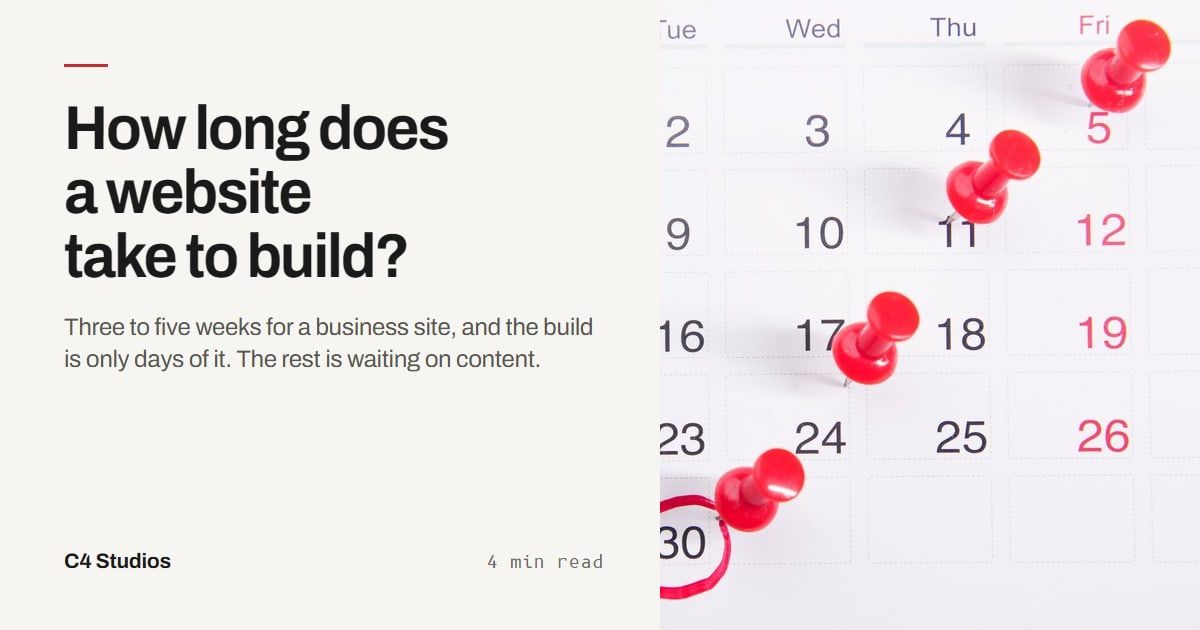
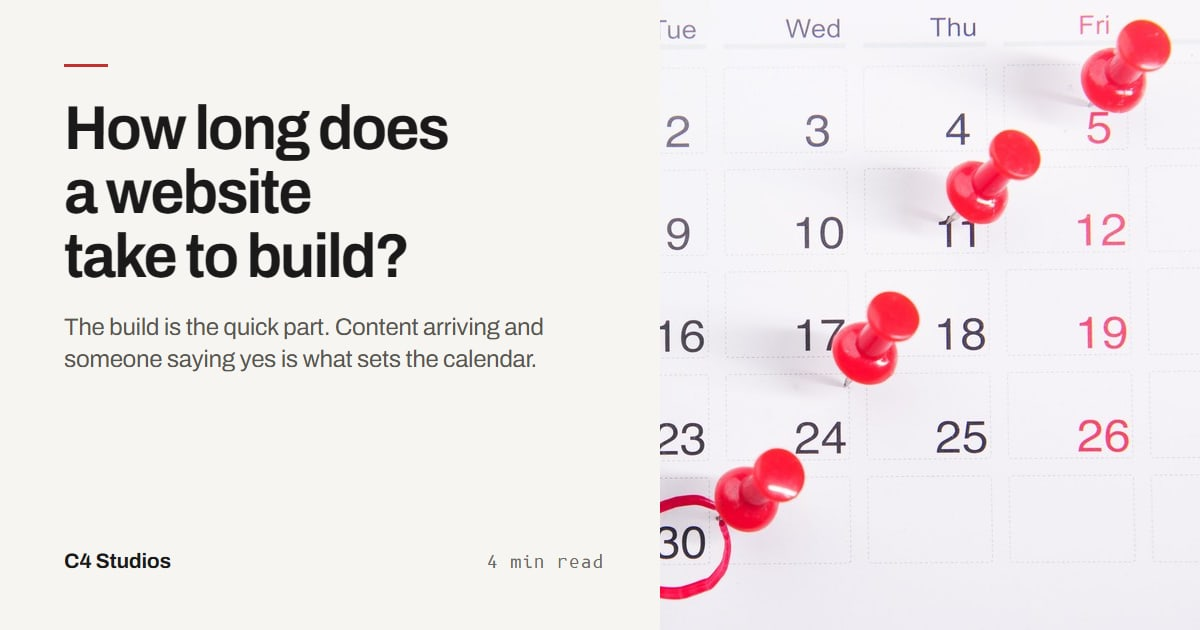
Article hooks that the articles back up, and C4Site's own words for C4Site
Three of the new /insights display lines claimed more than the articles do:
- Prices: "Fewer people got in touch, and more of the ones who did were
  serious" isn't in the article or on record anywhere. Now: the reasons
  studios keep prices off the site, named from inside, then all of ours.
- Wix: "$40 a month ... $2,400 over five years" put an unsourced plan price
  in the headline. Now the five-year point without the figure.
- How long: "Three to five weeks for a business site" put an unsourced range
  in the headline, and it disagreed with the home page's "2 to 3 weeks" for
  web. Now: the build is quick, content and a yes set the calendar.
The three share cards had the old lines baked in and are re-rendered from
the masters with scripts/article-photos.mjs; the photo crops came out
byte-identical.

llms.txt's C4Site line said it runs "private AI systems", which Caleb parked
on 10 Oct. It now uses C4Site's own description word for word
(c4site-website src/data/site.ts SITE.description) plus its footer line, as
the C4Site session asked.

/private-ai, /private-ai/, /c4i and /c4i/ now go straight to
c4site.com.au/ai-training-for-business/, in one hop, where C4Site's own
/private-ai/ is going (C4Site session, 15 Oct; Caleb: permanent "if thats
best"). The comment that said /private-ai/ "still reads ?tier= and ?supply="
is corrected.

Changed region(s): [[0.0617, 0.4825, 0.4933, 0.6032]]

diff --git a/src/content/seo/registry.js b/src/content/seo/registry.js
@@ -240,7 +240,7 @@ const COMPARISONS = [
     name: 'Wix or Squarespace, or a custom-built website?',
     title: 'Wix or Squarespace vs Custom: the 5-Year Maths | C4 Studios',
     description: 'The honest comparison: when a site builder is genuinely fine, when custom wins, and the five-year subscription maths nobody shows you.',
-    dek: 'At $40 a month, a site builder costs $2,400 over five years. Sometimes that’s still the right call.',
+    dek: 'A builder’s monthly fee never stops, so run the five-year maths before you call it cheap. Sometimes it’s still the right call.',
     photo: 'estate',
     image: '/insights/wix-squarespace-vs-custom-website-og.jpg',
     published: '2026-06-13', updated: '2026-06-13', readMinutes: 4,
@@ -276,7 +276,7 @@ const COMPARISONS = [
     name: 'How long does a website take to build?',
     title: 'How Long Does a Website Take to Build? | C4 Studios',
     description: 'Real timelines from a working studio: landing pages 1–2 weeks, business sites 3–5, stores 4–8. Where the time actually goes, and how to go faster.',
-    dek: 'Three to five weeks for a business site, and the build is only days of it. The rest is waiting on content.',
+    dek: 'The build is the quick part. Content arriving and someone saying yes is what sets the calendar.',
     photo: 'calendar',
     image: '/insights/how-long-does-a-website-take-og.jpg',
     published: '2026-06-13', updated: '2026-06-13', readMinutes: 4,
@@ -509,7 +509,7 @@ const ARTICLES = [
     name: 'Why do web designers hide their prices?',
     title: 'Why Web Designers Hide Their Prices (We Don’t) | C4 Studios',
     description: 'The three real reasons agencies quote on request, what "it depends" is actually protecting, and how to compare quotes when one is hiding the number.',
-    dek: 'We put every price on our site. Fewer people got in touch, and more of the ones who did were serious.',
+    dek: 'The reasons studios keep their prices off the site, named from inside the industry. Then every one of ours, in full.',
     photo: 'tags',
     image: '/insights/why-web-designers-hide-their-prices-og.jpg',
     published: '2026-08-03', updated: '2026-08-03', readMinutes: 6,
